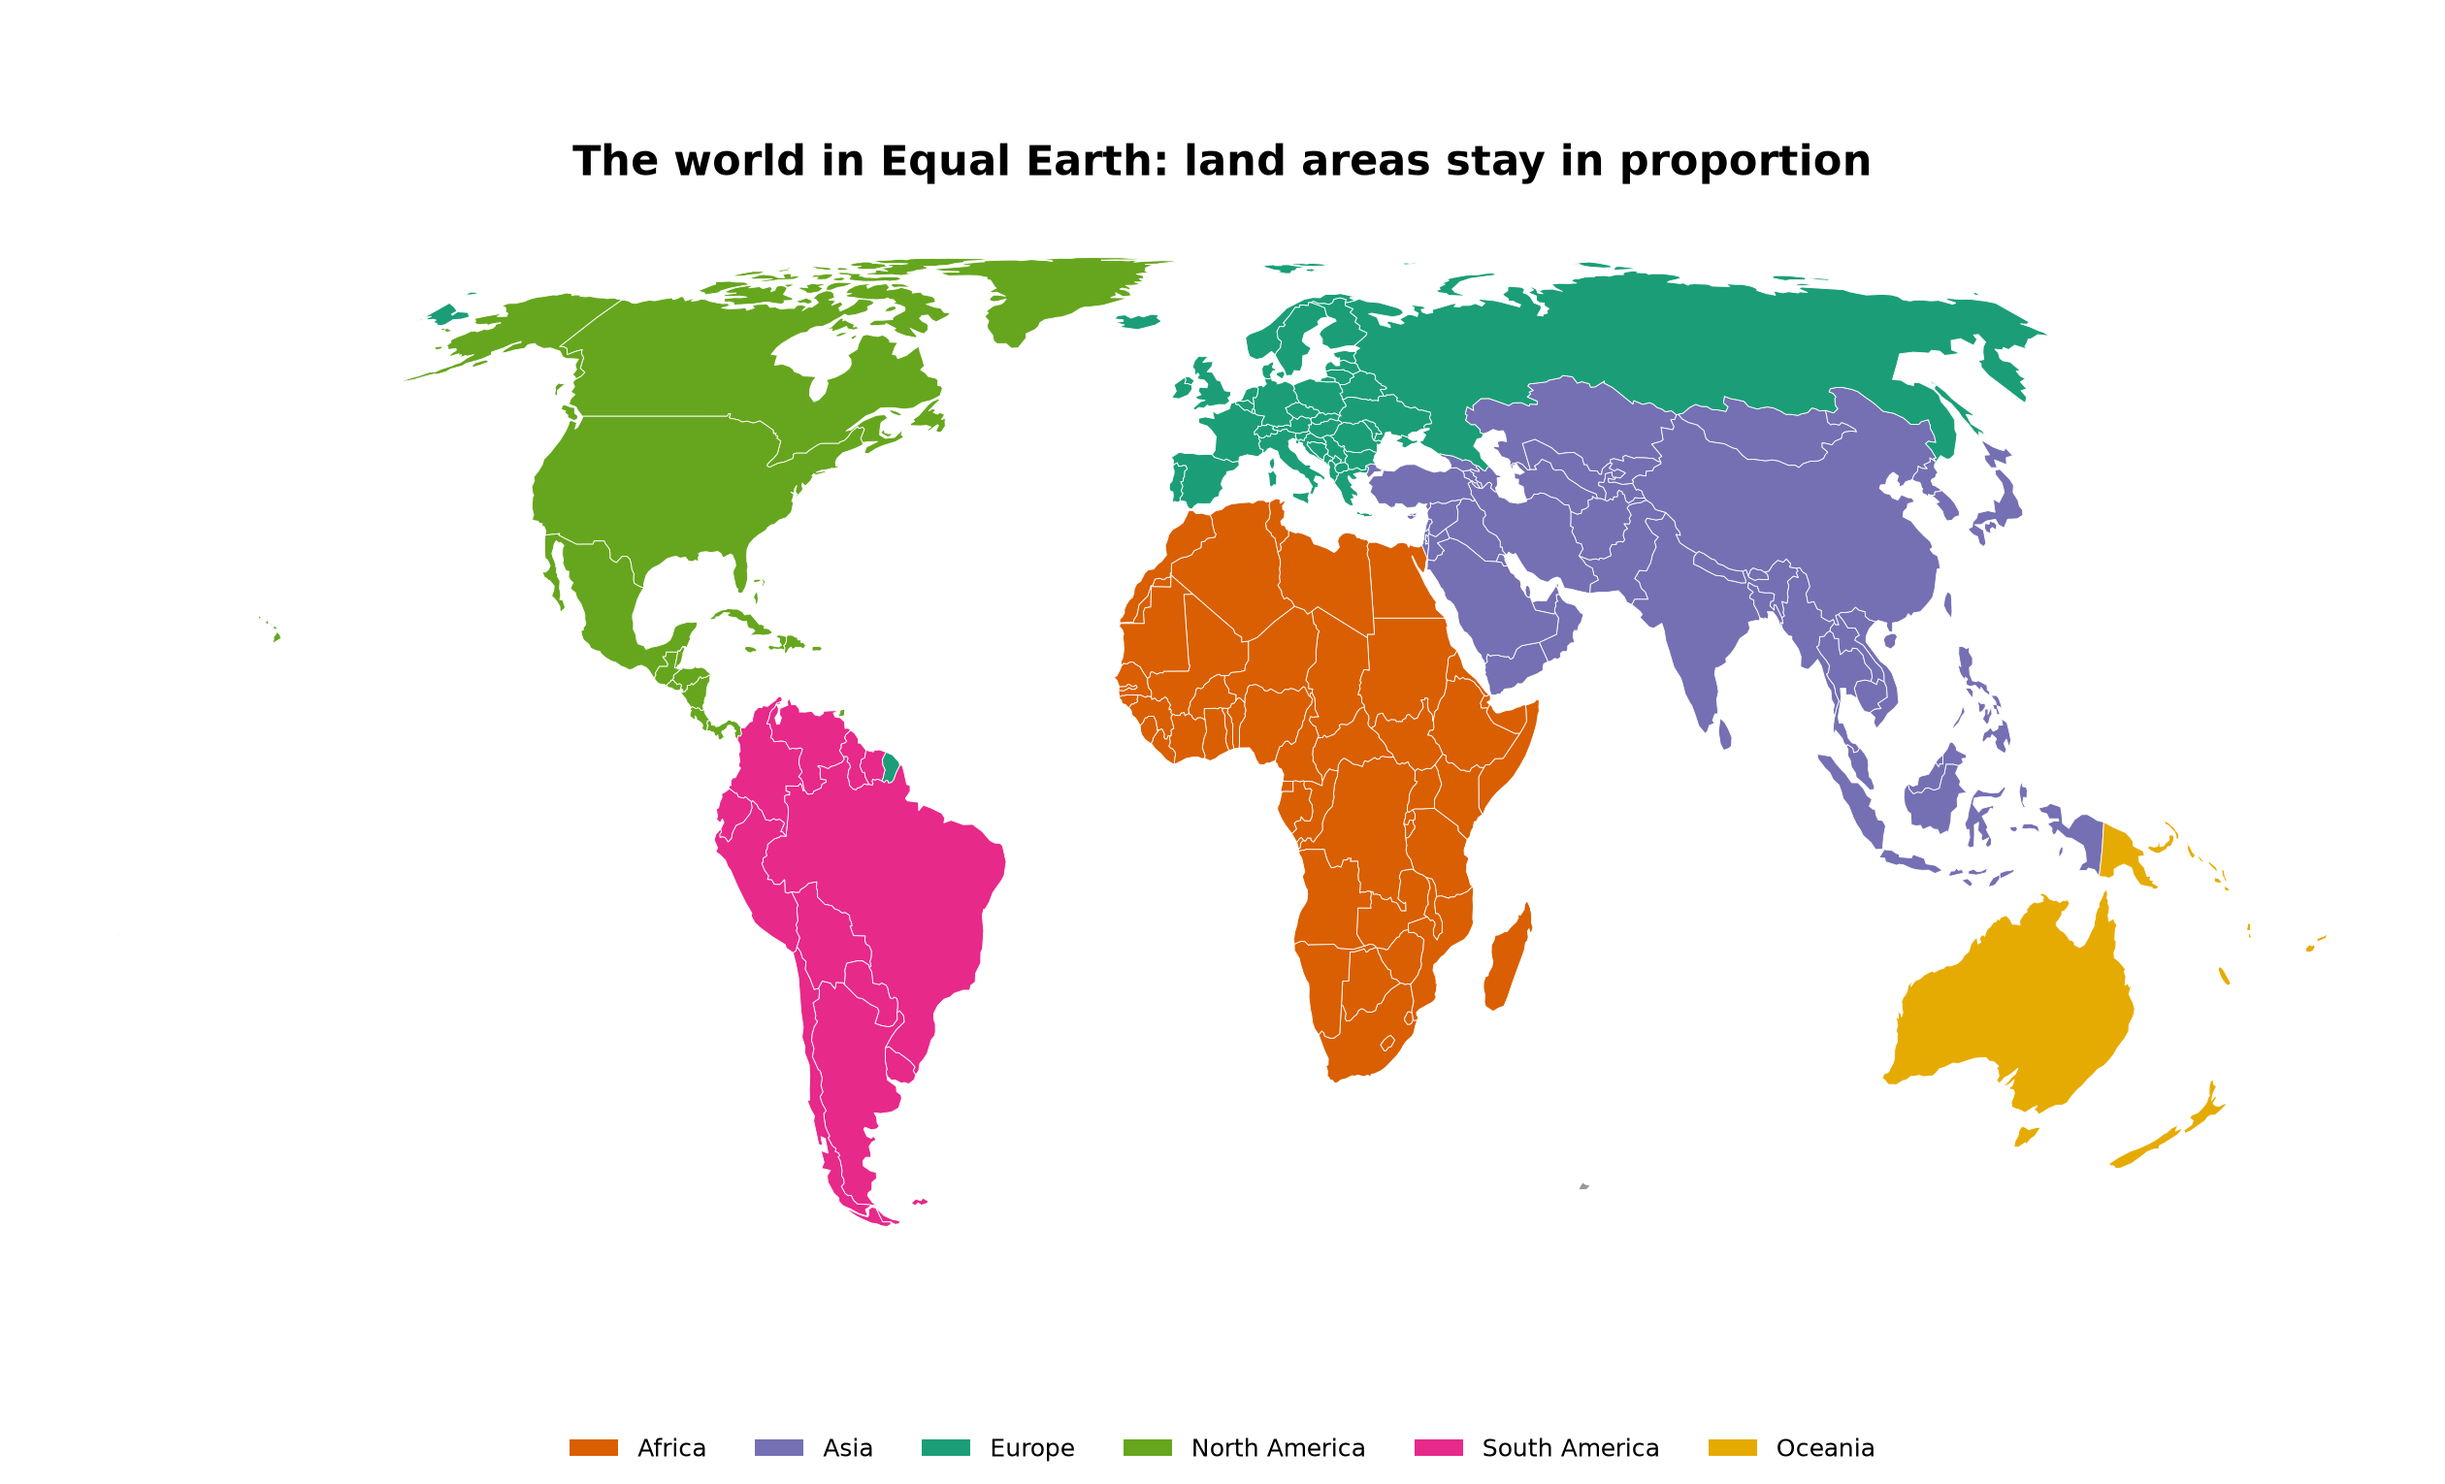
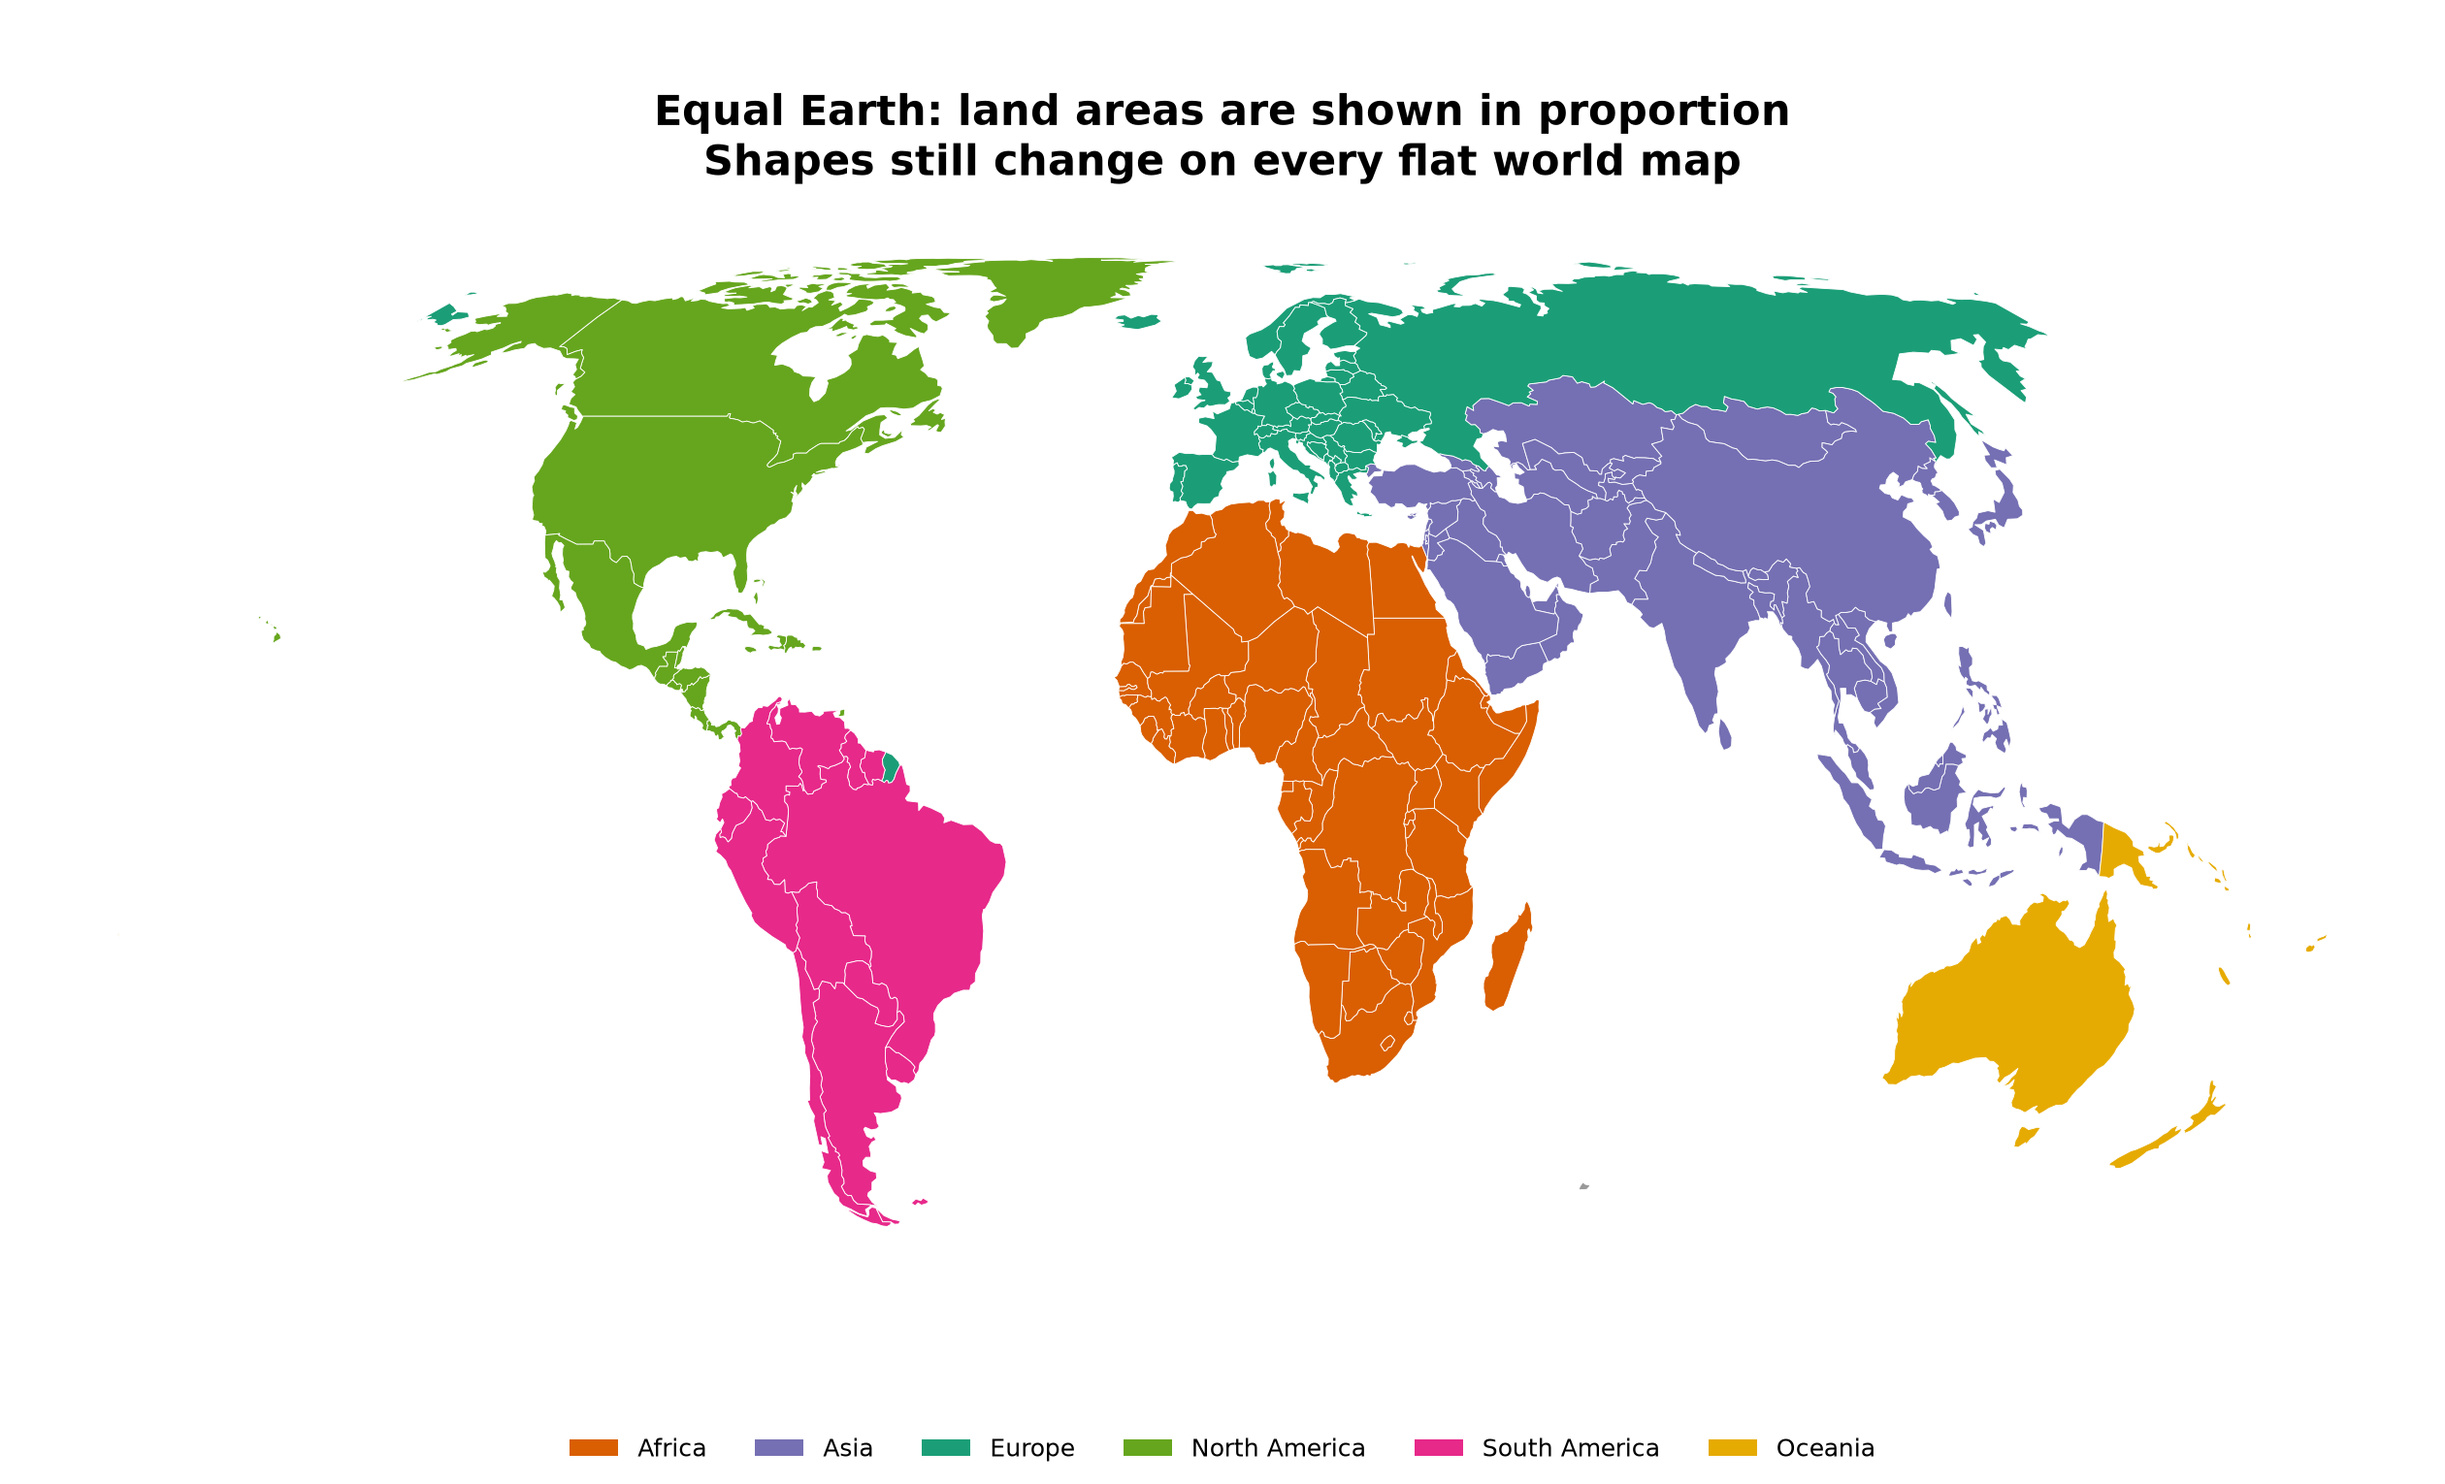
Clarify Equal Earth shape trade-offs

Changed region(s): [[0.2167, 0.0614, 0.7738, 0.1229]]

diff --git a/README.md b/README.md
@@ -1,4 +1,4 @@
-# Correct the Map: Measuring Africa's Distortion in World Map Projections
+# Correct the Map: Africa's True Relative Size
 
 A reproducible geospatial analysis of how WGS 84, Web Mercator, and Equal Earth change the visual relationship between Africa and other regions. The project combines maps, area measurements, true-scale overlays, and the 2026 UN vote on the **Correct the Map** resolution.
 
@@ -26,7 +26,7 @@ A reproducible geospatial analysis of how WGS 84, Web Mercator, and Equal Earth 
 
 ### Standalone Equal Earth view
 
-This map keeps the same continent colours and design used throughout the analysis while showing land areas in their correct proportions.
+This map keeps the same continent colours and design used throughout the analysis while showing land areas in the correct proportions. Australia looks more stretched than it does on a globe because Equal Earth preserves **area**, not exact **shape**. This is an expected projection trade-off, not a problem with the source data.
 
 ![Standalone Equal Earth world map using the project colour theme](figures/00_equal_earth_world.png)
 
@@ -69,7 +69,7 @@ The resolution is a recommendation, not a law. It does not ban Mercator, force a
 
 ## Reproduce the analysis
 
-Open [`Africa_map_distortion_analysis.ipynb`](Africa_map_distortion_analysis.ipynb) and run all cells from top to bottom.
+Open [`correct_the_map_africa.ipynb`](correct_the_map_africa.ipynb) and run all cells from top to bottom.
 
 ```bash
 pip install geopandas shapely pyproj matplotlib pandas
